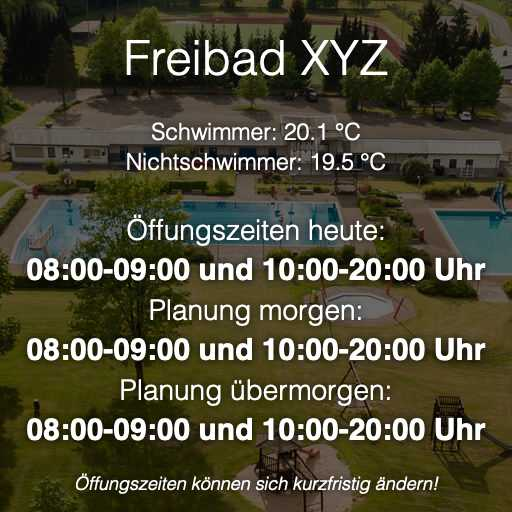
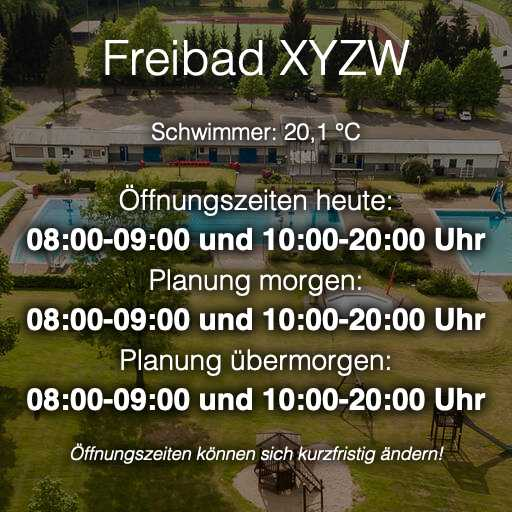
updates

diff --git a/index.html b/index.html
@@ -31,7 +31,7 @@
     <meta name="msapplication-TileColor" content="#9c1e14" />
     <meta name="msapplication-config" content="img/favicon/browserconfig.xml" />-->
     <title>Freibadampel</title>
-    <link rel="stylesheet" href="index.css?v=14" />
+    <link rel="stylesheet" href="index.css?v=15" />
     <script src="https://cdn.jsdelivr.net/npm/context-filter-polyfill/dist/index.min.js"></script>
   </head>
 
@@ -44,6 +44,7 @@
         height: 115px;
         background-color: black;
         margin: 0px;
+        text-align: center;
       "
     >
       <h1
@@ -54,7 +55,11 @@
           margin-left: 5px;
         "
       >
-        FREIBADAMPEL
+        <!--FREIBAD<span style="color: red">A</span>M<span style="color: orange"
+          >P</span
+        >E<span style="color: green">L</span>-->
+        Freibad
+        <img src="traffic-light.png" style="width: 15px" /> Ampel
       </h1>
       <div
         style="
@@ -93,57 +98,34 @@
           "
         />
 
-        <h3>VORSCHAU</h3>
-        <canvas
-          id="preview-canvas"
-          width="512"
-          height="512"
-          style="width: 100%; max-width: 512px"
-        ></canvas>
+        <h3 style="text-align: center">VORSCHAU</h3>
+        <div style="text-align: center">
+          <canvas
+            id="preview-canvas"
+            width="512"
+            height="512"
+            style="width: 100%; max-width: 512px"
+          ></canvas>
+        </div>
 
         <div style="text-align: center">
           <button
             id="publish"
             class="button-primary"
-            style="margin-top: 4px; width: 100%"
+            style="margin-top: 4px; width: 100%; max-width: 512px"
           >
             publizieren
           </button>
         </div>
         <br />
-        <h3>ÖFFENTLICH</h3>
-        <div id="div-preview" class="panel">
-          <!-- -->
-          <span style="font-size: 16pt">FREIBAD XYZ</span>
-          <br />
-          <i>Schwimmer: 20.1 °C, Nichtschwimmer: 19.5 °C</i>
-          <br />
-          <br />
-          <b>Heute: 08:00-09:00 und 10:00-20:00 Uhr</b><br />
-          <br />
-          <i>Voraussichtlich:</i><br />
-          Morgen: 08:00-09:00 und 10:00-20:00 Uhr<br />
-          Übermorgen: 08:00-09:00 und 10:00-20:00 Uhr<br />
-          <br />
-          <i
-            >Achtung: Zeiten können sich je nach Wetterlage jederzeit ändern.</i
-          >
+        <h3 style="text-align: center">AKTUELL ÖFFENTLICH</h3>
+        <div style="text-align: center">
+          <img id="public-img" style="width: 100%; max-width: 512px" />
         </div>
       </div>
 
       <!-- ========== TEMPERATURE ========== -->
-      <div id="div-temperature" style="display: none">
-        <div id="div-temperature" class="panel">
-          <b style="font-size: large">SCHWIMMER / °C</b><br />
-          <div style="text-align: center; font-size: x-large">20,1 °C</div>
-          <div style="padding-top: 4px">Vorkommastelle:</div>
-          <div id="water-temperature-test" class="sliderContainer"></div>
-          <div style="padding-top: 4px">Nachkommastelle:</div>
-          <div id="water-temperature-test-2" class="sliderContainer"></div>
-          <br />
-          <input type="checkbox" checked /> Wassertemperatur anzeigen
-        </div>
-      </div>
+      <div id="div-temperature" style="display: none; max-width: 1024px"></div>
 
       <!-- ========== HOURS ========== -->
 
@@ -164,9 +146,14 @@
             Heute,<br />
             Samstag, 05.08.2023
           </div>
-          <button class="button-primary" style="width: 100%">
-            Setze Standardzeiten</button
-          ><br />
+          <div style="text-align: center">
+            <button
+              class="button-primary"
+              style="width: 100%; max-width: 512px"
+            >
+              Setze Standardzeiten
+            </button>
+          </div>
           <div
             style="
               border-style: solid;
@@ -214,14 +201,24 @@
               <input type="checkbox" /> Endzeit nach hinten offen<br />
             </div>
 
-            <button class="button-primary" style="margin-top: 8px; width: 100%">
-              diesen Zeitslot löschen
-            </button>
+            <div style="text-align: center">
+              <button
+                class="button-primary"
+                style="margin-top: 8px; width: 100%; max-width: 512px"
+              >
+                diesen Zeitslot löschen
+              </button>
+            </div>
           </div>
           <br />
-          <button class="button-primary" style="width: 100%">
-            weiteren Zeitslot hinzufügen
-          </button>
+          <div style="text-align: center">
+            <button
+              class="button-primary"
+              style="width: 100%; max-width: 512px"
+            >
+              weiteren Zeitslot hinzufügen
+            </button>
+          </div>
           <br />
         </div>
 
@@ -301,6 +298,17 @@
     </div>
 
     <script>
+      // ----- load data -----
+      let data = {};
+      // TODO: check for errors
+      fetch("data.json")
+        .then((response) => response.json())
+        .then((d) => {
+          data = d;
+          showPreview();
+        });
+
+      // ----- publish -----
       function publish() {
         let img = document
           .getElementById("preview-canvas")
@@ -312,6 +320,8 @@
           headers: { "Content-Type": "application/json" },
           body: JSON.stringify({ "img-data": img }),
           //body: "just a test",
+        }).then(() => {
+          showPublished();
         });
       }
       document.getElementById("publish").addEventListener("click", () => {
@@ -342,19 +352,13 @@
             v.style.display = menuElement == u ? "block" : "none";
           }
           if (id == "temperature") showTemperature();
+          else if (id == "preview") {
+            showPreview();
+            showPublished();
+          }
           window.scrollTo(0, 0);
         });
       }
-
-      // ----- load data -----
-      let data = {};
-      // TODO: check for errors
-      fetch("data.json")
-        .then((response) => response.json())
-        .then((d) => {
-          data = d;
-          console.log(d);
-        });
 
       // ----- temperature -----
       function showTemperature() {
@@ -426,7 +430,15 @@
           checkboxShow.checked = dataPool["showTemp"];
           let checkboxShowText = document.createElement("span");
           checkboxShowText.innerHTML = " " + "Wassertemperatur anzeigen";
+          checkboxShowText.style.cursor = "pointer";
           panel.appendChild(checkboxShowText);
+          checkboxShow.addEventListener("click", () => {
+            dataPool["showTemp"] = checkboxShow.checked;
+          });
+          checkboxShowText.addEventListener("click", () => {
+            checkboxShow.click();
+            dataPool["showTemp"] = checkboxShow.checked;
+          });
           // spacing after panel
           parent.appendChild(document.createElement("br"));
           // scroll to active: TODO: DOES NOT WORK!!
@@ -447,14 +459,15 @@
         fontWeight = 600,
         italic = false
       ) {
-        ctx.filter = "blur(4px)";
+        ctx.filter = "blur(6px)";
         ctx.fillStyle = "black";
         let font = "";
         if (italic) font += "italic ";
         font += fontWeight + " " + fontSize + "px sans-serif";
         ctx.font = font;
         let m = ctx.measureText(text);
-        ctx.fillText(text, ctxSize / 2 - m.width / 2, y);
+        for (k = 0; k < 3; k++)
+          ctx.fillText(text, ctxSize / 2 - m.width / 2, y);
         ctx.filter = "none";
         ctx.fillStyle = "white";
         ctx.font = font;
@@ -462,12 +475,20 @@
         ctx.fillText(text, ctxSize / 2 - m.width / 2, y);
       }
 
-      function renderOutput(canvas) {
+      let img = document.getElementById("my-img");
+      img.addEventListener("load", (e) => {
+        showPreview();
+        showPublished();
+      });
+
+      function showPreview() {
+        let canvas = document.getElementById("preview-canvas");
+
         const ctxSize = 512;
         var ctx = canvas.getContext("2d");
         //ctx.globalAlpha = 0.45;
 
-        ctx.filter = "brightness(42%)";
+        ctx.filter = "brightness(55%)";
         ctx.drawImage(img, 0, 0);
         ctx.filter = "brightness(100%)";
         //ctx.globalAlpha = 1.0;
@@ -480,22 +501,29 @@
 
         let y = 75;
         ctx.font = "lighter 48px sans-serif";
-        let title = "Freibad XYZ";
+        let title = data["name"];
         let m = ctx.measureText(title);
         ctx.fillText(title, ctxSize / 2 - m.width / 2, y);
 
-        y += 25;
+        y += 35;
 
-        let text = "Schwimmer: 20.1 °C";
-        y += 40;
-        renderText(ctx, ctxSize, text, y, fontSizeTemperature, 300);
-        text = "Nichtschwimmer: 19.5 °C";
+        for (let i = 0; i < data["pools"].length; i++) {
+          let poolData = data["pools"][i];
+          if (poolData["showTemp"] == false) continue;
+          text =
+            poolData["id"] +
+            ": " +
+            poolData["temp"][0] +
+            "," +
+            poolData["temp"][1] +
+            " °C";
+          y += 30;
+          renderText(ctx, ctxSize, text, y, fontSizeTemperature, 300);
+        }
+
         y += 30;
-        renderText(ctx, ctxSize, text, y, fontSizeTemperature, 300);
 
-        y += 30;
-
-        text = "Öffungszeiten heute:";
+        text = "Öffnungszeiten heute:";
         y += 40;
         renderText(ctx, ctxSize, text, y, fontSizeHoursLabel, 300);
         y += 40;
@@ -517,24 +545,13 @@
         renderText(ctx, ctxSize, text, y, fontSizeHours);
 
         y += 50;
-        text = "Öffungszeiten können sich kurzfristig ändern!";
+        text = "Öffnungszeiten können sich kurzfristig ändern!";
         renderText(ctx, ctxSize, text, y, fontSizeInfo, 300, true);
-
-        /*ctx.filter = "blur(4px)";
-        ctx.fillStyle = "black";
-        ctx.font = "600 20px sans-serif";
-        title = "Heute: 08:00-09:00 und 10:00-20:00 Uhr";
-        m = ctx.measureText(title);
-        ctx.fillText(title, size / 2 - m.width / 2, 250);
-        ctx.filter = "blur(0px)";
-        ctx.fillStyle = "white";
-        ctx.fillText(title, size / 2 - m.width / 2, 250);*/
       }
 
-      let img = document.getElementById("my-img");
-      img.addEventListener("load", (e) => {
-        renderOutput(document.getElementById("preview-canvas"));
-      });
+      function showPublished() {
+        document.getElementById("public-img").src = "blub.jpg?v=" + Date.now();
+      }
 
       // ----- GUI helpers -----
       function generateNumberButtons(fun, parent, start, end, active = -1) {

diff --git a/index.css b/index.css
@@ -11,7 +11,7 @@
 .sliderContainer {
   overflow-y: hidden;
   overflow-x: auto;
-  width: calc(100% - 22px);
+  width: calc(100% - 5px);
   white-space: nowrap;
 }
 
